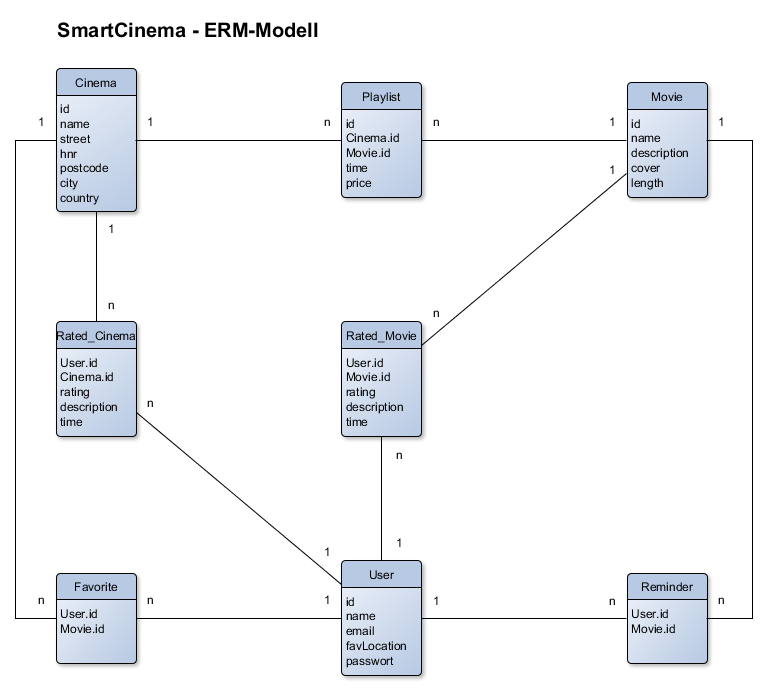
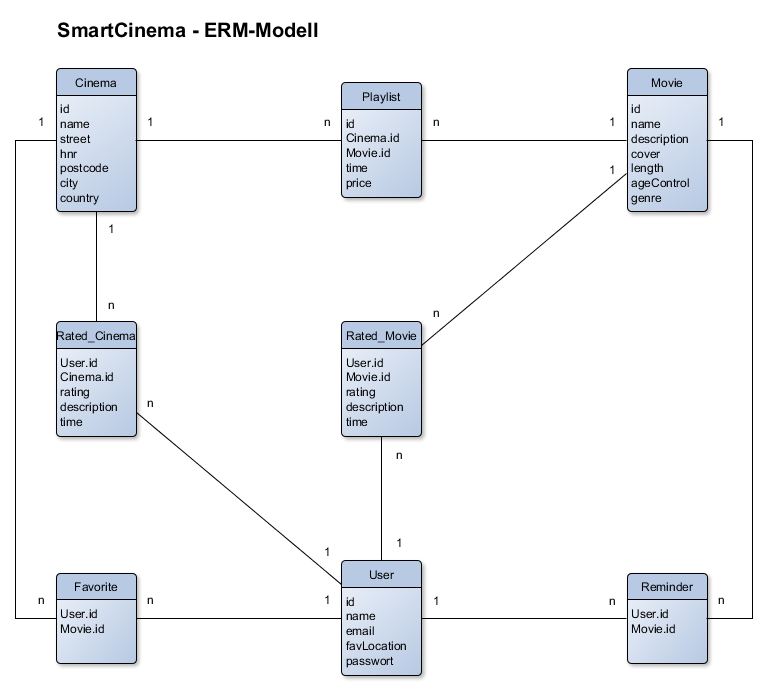
TESB416-178 - Added attributes ageControl and genre to Entity Movie (also edited ERM) - Added filter for movies by ageControl and/or genre - Added method to get average rating per movie

Changed region(s): [[0.8096, 0.0912, 0.9296, 0.3343]]

diff --git a/web app/src/main/java/de/tinf15b4/kino/data/movies/Movie.java b/web app/src/main/java/de/tinf15b4/kino/data/movies/Movie.java
@@ -18,6 +18,22 @@ public class Movie {
     private byte[] cover;
 
     private long lengthMinutes;
+    private AgeControl ageControl;
+    private Genre genre;
+
+    public Movie() {
+
+    }
+
+    public Movie(String name, String description, byte[] cover, long lengthMinutes, Genre genre,
+            AgeControl ageControl) {
+        this.name = name;
+        this.description = description;
+        this.cover = cover;
+        this.lengthMinutes = lengthMinutes;
+        this.genre = genre;
+        this.ageControl = ageControl;
+    }
 
     public long getId() {
         return id;
@@ -57,5 +73,21 @@ public class Movie {
 
     public void setLengthMinutes(long lengthMinutes) {
         this.lengthMinutes = lengthMinutes;
+    }
+
+    public Genre getGenre() {
+        return genre;
+    }
+
+    public void setGenre(Genre genre) {
+        this.genre = genre;
+    }
+
+    public AgeControl getAgeControl() {
+        return ageControl;
+    }
+
+    public void setAgeControl(AgeControl ageControl) {
+        this.ageControl = ageControl;
     }
 }

diff --git a/web app/src/main/java/de/tinf15b4/kino/data/initializer/FakeDataInitializer.java b/web app/src/main/java/de/tinf15b4/kino/data/initializer/FakeDataInitializer.java
@@ -19,6 +19,8 @@ import de.tinf15b4.kino.data.cinemas.Cinema;
 import de.tinf15b4.kino.data.cinemas.CinemaService;
 import de.tinf15b4.kino.data.favorites.Favorite;
 import de.tinf15b4.kino.data.favorites.FavoriteService;
+import de.tinf15b4.kino.data.movies.AgeControl;
+import de.tinf15b4.kino.data.movies.Genre;
 import de.tinf15b4.kino.data.movies.Movie;
 import de.tinf15b4.kino.data.movies.MovieService;
 import de.tinf15b4.kino.data.playlists.Playlist;
@@ -67,6 +69,8 @@ public class FakeDataInitializer implements DataInitializer {
             m.setName(faker.superhero().name());
             m.setDescription(faker.shakespeare().kingRichardIIIQuote());
             m.setLengthMinutes(faker.number().numberBetween(20, 240));
+            m.setGenre(Genre.values()[rnd.nextInt(Genre.values().length)]);
+            m.setAgeControl(AgeControl.values()[rnd.nextInt(AgeControl.values().length)]);
 
             // Picture
             try {

diff --git a/web app/src/main/java/de/tinf15b4/kino/web/views/MovieView.java b/web app/src/main/java/de/tinf15b4/kino/web/views/MovieView.java
@@ -76,6 +76,10 @@ public class MovieView extends VerticalLayout implements View {
                 left.addComponent(image);
 
                 right.addComponent(new Label("Länge: " + m.getLengthMinutes() + " Minuten"));
+                right.addComponent(new Label("Genre: " + m.getGenre()));
+                right.addComponent(new Label("Altersfreigabe: " + m.getAgeControl()));
+                right.addComponent(
+                        new Label("Durschschnittliche Bewertung: " + ratedMovieService.getAverageRatingForMovie(m)));
                 right.addComponent(new Label(m.getDescription()));
                 this.addComponent(new HorizontalLayout(left, right));
 

diff --git a/web app/src/main/java/de/tinf15b4/kino/data/movies/MovieRepository.java b/web app/src/main/java/de/tinf15b4/kino/data/movies/MovieRepository.java
@@ -12,4 +12,8 @@ public interface MovieRepository extends JpaRepository<Movie, Long> {
 
     @Query("select m from Movie m where lower(m.description) like concat('%', lower(:d), '%')")
     List<Movie> findByDescriptionLike(@Param("d") String desc);
+
+    @Query("SELECT m FROM Movie m WHERE (:ac is null OR m.ageControl = :ac) "
+            + "AND (:genre is null OR m.genre = :genre) ORDER BY m.name")
+    List<Movie> findByFilter(@Param("ac") AgeControl ac, @Param("genre") Genre genre);
 }

diff --git a/web app/src/main/java/de/tinf15b4/kino/data/movies/Genre.java b/web app/src/main/java/de/tinf15b4/kino/data/movies/Genre.java
@@ -1,0 +1,17 @@
+package de.tinf15b4.kino.data.movies;
+
+public enum Genre {
+    Drama("Drama"), Comedy("Komödie"), Thriller("Thriller"), Romantic("Liebesfilm"), Horror("Horror"), SciFi(
+            "Science Fiction");
+
+    private final String translation;
+
+    Genre(String translation) {
+        this.translation = translation;
+    }
+
+    @Override
+    public String toString() {
+        return this.translation;
+    }
+}

diff --git a/web app/src/main/java/de/tinf15b4/kino/data/ratedmovies/RatedMovieRepository.java b/web app/src/main/java/de/tinf15b4/kino/data/ratedmovies/RatedMovieRepository.java
@@ -15,4 +15,7 @@ public interface RatedMovieRepository extends JpaRepository<RatedMovie, Long> {
 
     @Query("SELECT rm FROM RatedMovie rm WHERE rm.id.user = :user ORDER BY rm.time ASC")
     List<RatedMovie> findRatingsByUser(@Param("user") User user);
+
+    @Query("SELECT avg(rm.rating) FROM RatedMovie rm WHERE rm.id.movie = :movie GROUP BY rm.id.movie")
+    List<Double> getAverageRatingForMovie(@Param("movie") Movie movie);
 }

diff --git a/web app/src/main/java/de/tinf15b4/kino/data/ratedmovies/RatedMovieServiceImpl.java b/web app/src/main/java/de/tinf15b4/kino/data/ratedmovies/RatedMovieServiceImpl.java
@@ -23,4 +23,14 @@ public class RatedMovieServiceImpl implements RatedMovieService {
         return ratedMovieRepository.findRatingsByMovie(m);
     }
 
+    @Override
+    public double getAverageRatingForMovie(Movie m) {
+        List<Double> ratings = ratedMovieRepository.getAverageRatingForMovie(m);
+
+        if (ratings.size() == 0)
+            return 0.0;
+        else
+            return ratings.get(0);
+    }
+
 }

diff --git a/web app/src/main/java/de/tinf15b4/kino/data/movies/MovieServiceImpl.java b/web app/src/main/java/de/tinf15b4/kino/data/movies/MovieServiceImpl.java
@@ -22,6 +22,11 @@ public class MovieServiceImpl implements MovieService {
     }
 
     @Override
+    public List<Movie> findByFilter(AgeControl ac, Genre genre) {
+        return movieRepository.findByFilter(ac, genre);
+    }
+
+    @Override
     public List<Movie> findAll() {
         return movieRepository.findAll();
     }

diff --git a/web app/src/main/java/de/tinf15b4/kino/data/movies/MovieService.java b/web app/src/main/java/de/tinf15b4/kino/data/movies/MovieService.java
@@ -8,6 +8,8 @@ public interface MovieService {
 
     Movie findOne(long l);
 
+    List<Movie> findByFilter(AgeControl ac, Genre genre);
+
     List<Movie> findAll();
 
 }

diff --git a/web app/src/main/java/de/tinf15b4/kino/data/ratedmovies/RatedMovieService.java b/web app/src/main/java/de/tinf15b4/kino/data/ratedmovies/RatedMovieService.java
@@ -10,4 +10,6 @@ public interface RatedMovieService {
 
     List<RatedMovie> findRatingsByMovie(Movie m);
 
+    double getAverageRatingForMovie(Movie m);
+
 }

diff --git a/web app/src/main/java/de/tinf15b4/kino/data/movies/AgeControl.java b/web app/src/main/java/de/tinf15b4/kino/data/movies/AgeControl.java
@@ -1,0 +1,5 @@
+package de.tinf15b4.kino.data.movies;
+
+public enum AgeControl {
+    USK0, USK6, USK12, USK16, USK18;
+}
